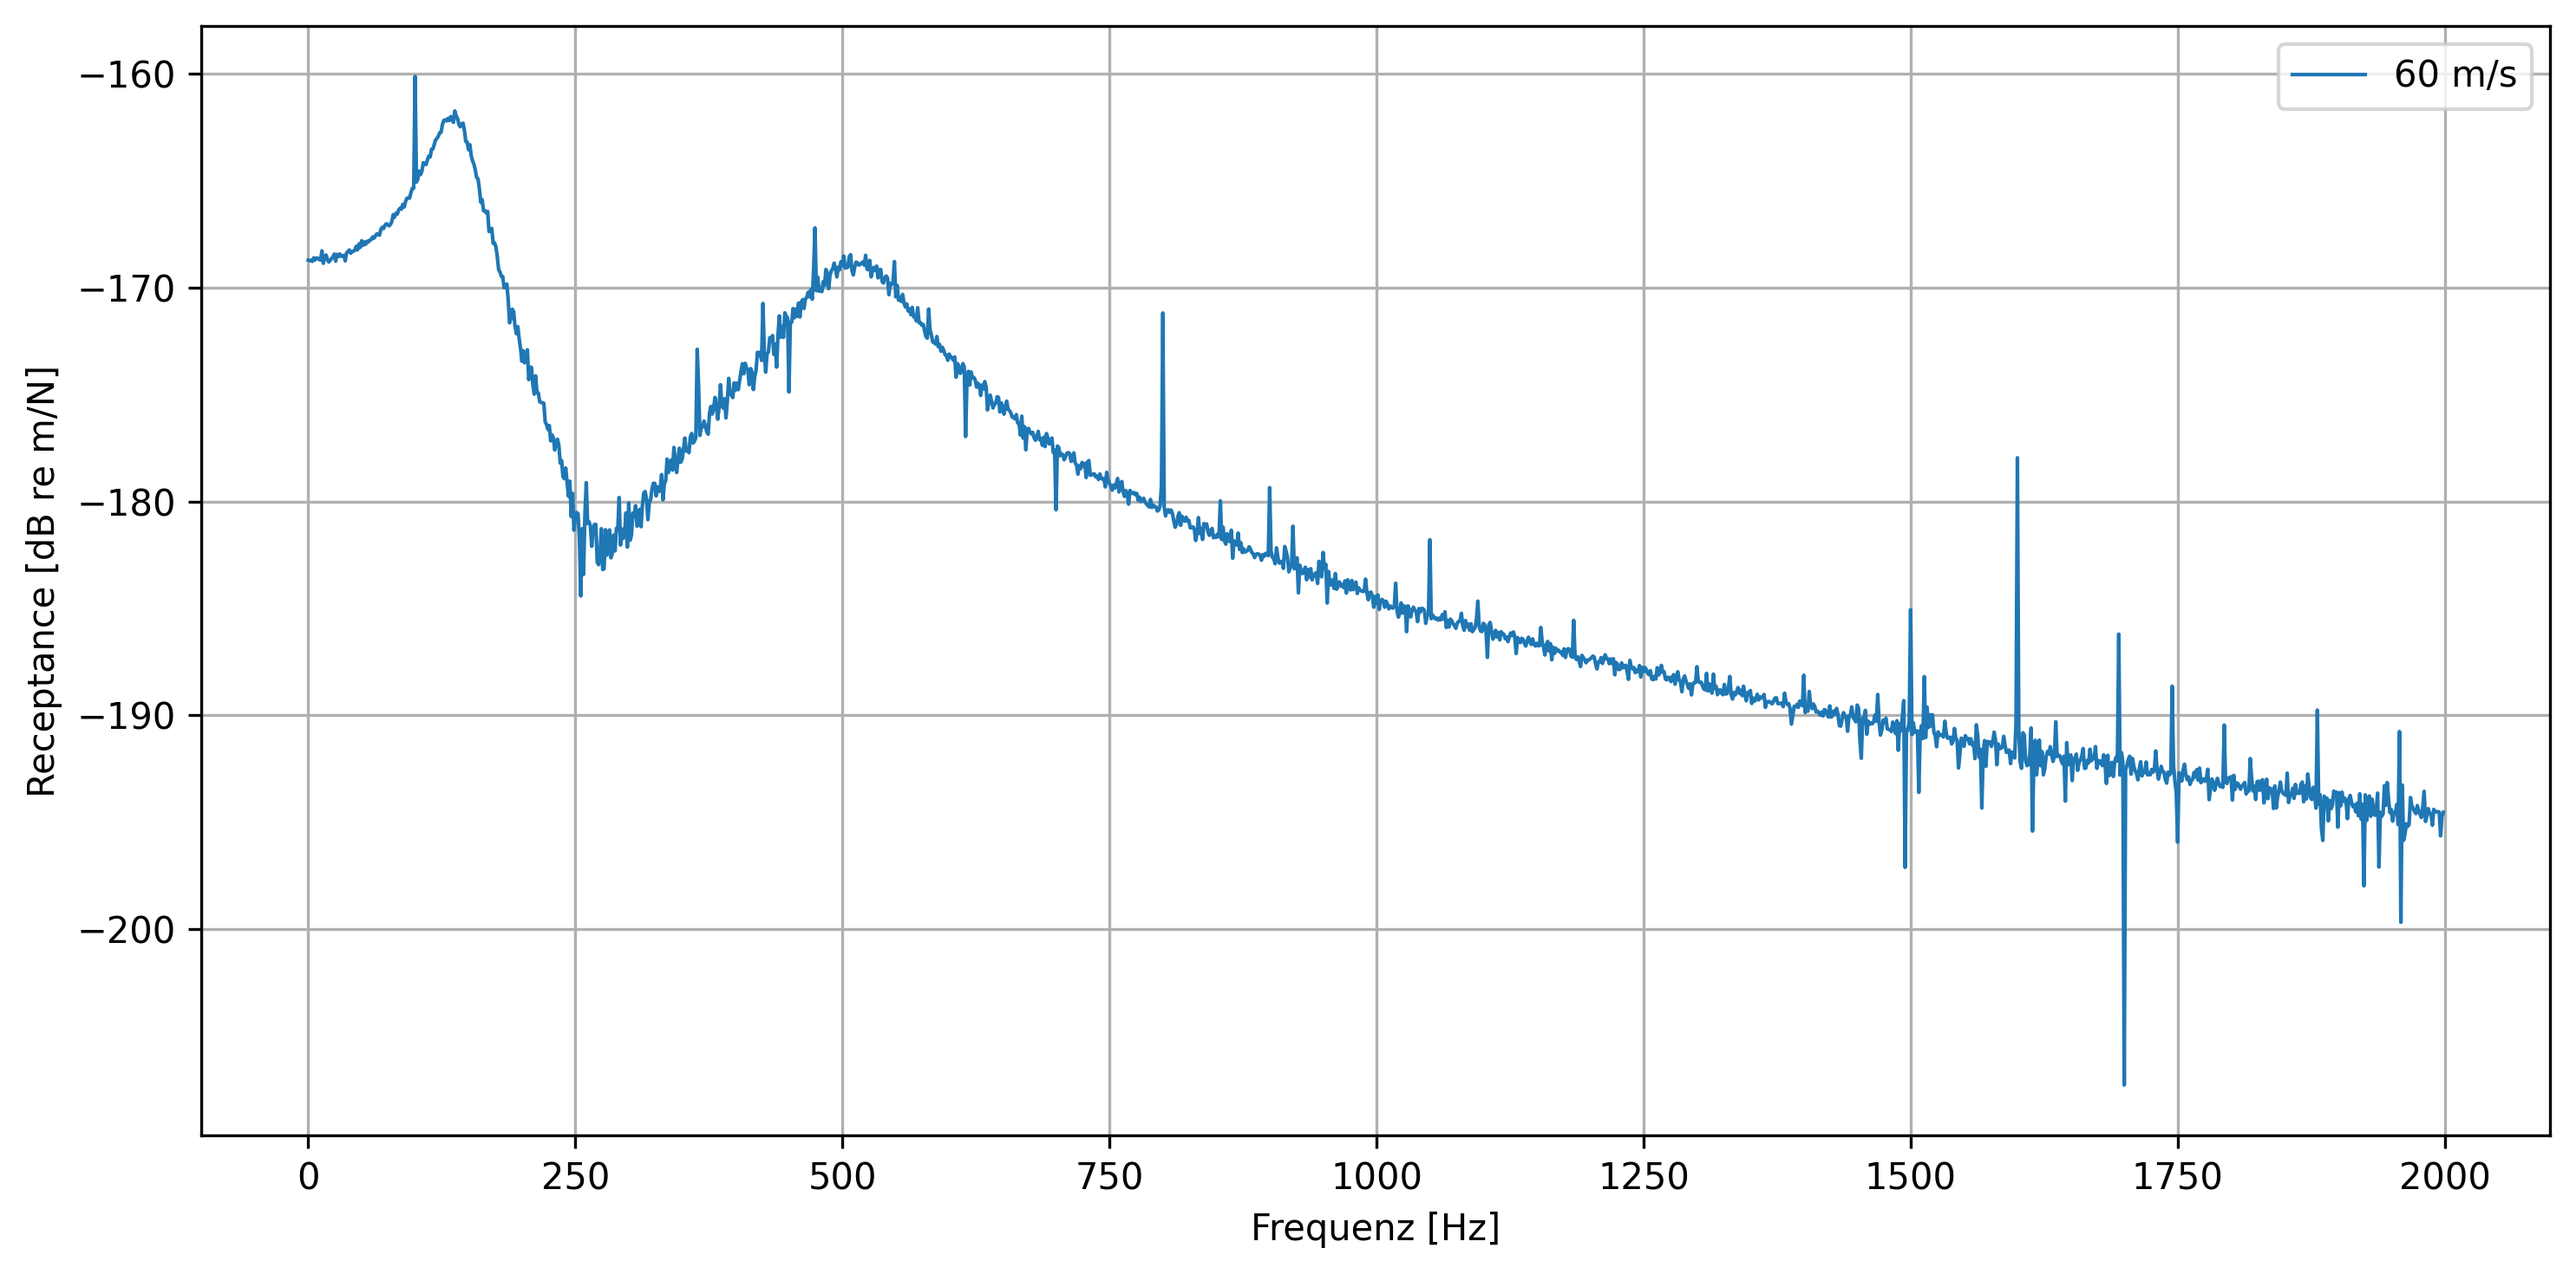
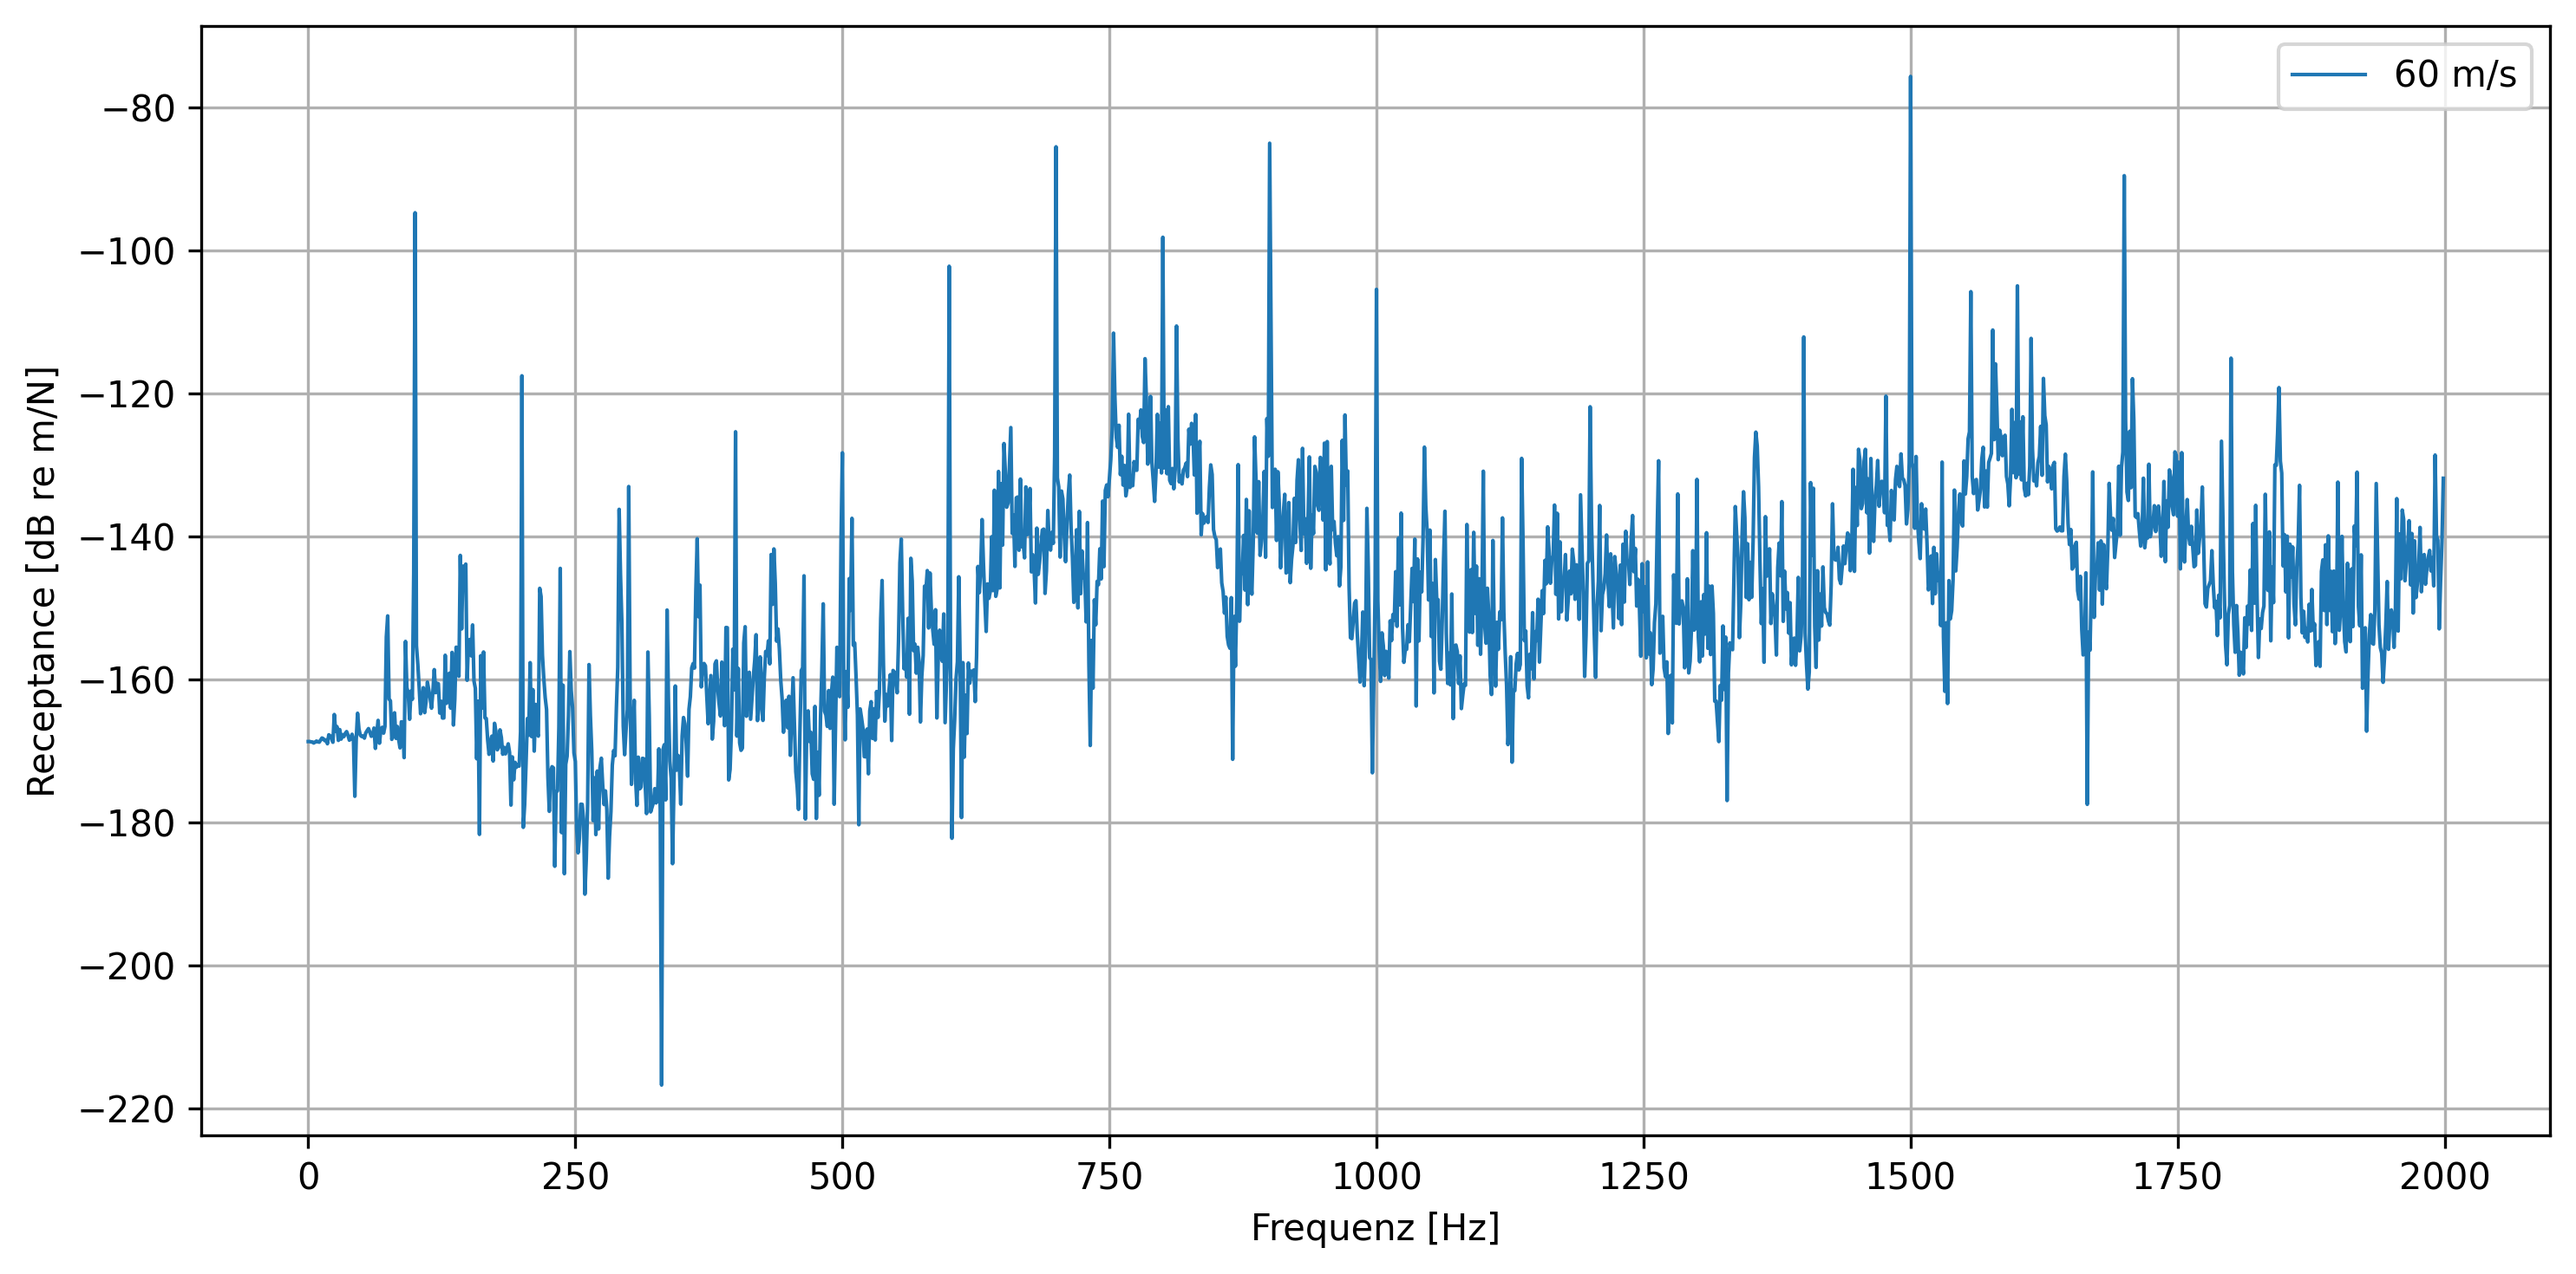
contact model works: no roughness for now though, so results look a bit weird. But deflection plots are on point! I will add roughness next.

diff --git a/rolland/deflection.py b/rolland/deflection.py
@@ -119,7 +119,7 @@ class DeflectionEBBVertic(Deflection):
         defl = empty((2 * self.discr.nx, self.discr.nt))
 
         # Set starting values to zero for two time steps
-        defl[:, 0:2] = zeros((2 * self.discr.nx, 2))
+        defl[:, 0:2] = zeros((2 * self.discr.nx, 2))    # NOTE: can this be dropped?
         return defl
 
     def calc_force(self):
@@ -127,7 +127,7 @@ class DeflectionEBBVertic(Deflection):
         t = linspace(0, self.discr.sim_t, self.discr.nt)
         self.force = self.excit.force(t)
 
-    def calc_rightside_crank_nicolson(self, u1, u0, excitation_pos, t):
+    def calc_rightside_crank_nicolson(self, defl, u1, u0, excitation_pos, t):
         """Calculate the right-hand side of the equation according to :cite:t:`stampka2022a`.
 
         Parameters
@@ -147,28 +147,72 @@ class DeflectionEBBVertic(Deflection):
             Right-hand side of the equation.
         """
         # create empty force array with length equal to number of DOFs (2*nx)
-        f = zeros(2 * self.discr.nx)
+        f_vec = zeros(2 * self.discr.nx)
 
-
-
-
-
-
-
-
-
-
-        # distribute force to the two nearest grid points using linear interpolation
         for pos in excitation_pos:
+            if len(self.force) <= t:
+                # Initialize variables for Hertzian contact calculation
+                force = -np.inf  # Initial force
+                max_iter = 100  # Maximum number of iterations
+                eps = 1e-6  # Convergence criterion
+
+
+
+                nu = self.track.rail.nu  # Poisson's ratio of the rail
+                G = self.track.rail.G  # Shear modulus of the rail
+                Ra = 0.35 # NOTE: hardcoded parameter, get from wheel geometry if available
+                alpha = 1 # NOTE: hardcoded parameter, get from wheel geometry if available
+                C = ((2*(1-nu))/(G*np.sqrt(Ra)))**(2/3) * alpha
+
+                static_force = self.excit.force_amplitude  # Static force at t=0, can be adjusted if needed
+                delta_0 = C*static_force**(2/3)  # Initial guess for penetration based on static force, can be adjusted if needed
+
+                # NOTE: needs changes to be multi-wheel compatible
+                for i in range(max_iter):
+                    # Calculate rail deflection, roughness, and wheel deflection
+                    upper_idx = int(np.ceil(pos))
+                    lower_idx = int(np.floor(pos))
+                    upper_weight = pos - lower_idx
+                    lower_weight = upper_idx - pos
+                    y_r = lower_weight*u1[lower_idx] + upper_weight*u1[upper_idx]  # Interpolated rail deflection at excitation point
+                    y_s = lower_weight*self.excit.roughness[lower_idx] + upper_weight*self.excit.roughness[upper_idx]  # Interpolated track roughness
+                    # y_w = wheel_deflection(force)  # Wheel deflection TODO: add wheel deflection calculation
+
+                    # Calculate geometric penetration
+                    ####################### TODO: ADD BACK ROUGHNESS ########################
+                    delta_lin = delta_0 + y_s # NOTE: are the directions of y_r & y_s correct?
+
+                    if delta_lin <= 0:
+                        force = 0
+                        self.force.append(force)  # Store the converged force value for the current time step
+                        break
+
+                    # Update force using Hertzian contact law
+                    force_new = (delta_lin / C) ** (3 / 2)
+
+                    if abs(force_new - force) < eps:
+                        force = force_new
+                        self.force.append(force)  # Store the converged force value for the current time step
+                        break
+
+                    # Update force for the next iteration
+                    force = force_new
+                else:
+                    print("Warning: Hertzian contact calculation did not converge.")
+            else:
+                force = self.force[t]
+
+
+            # distribute force to the two nearest grid points using linear interpolation
             lower_idx = int(np.floor(pos))
             upper_idx = int(np.ceil(pos))
             weight_upper = pos - lower_idx
             weight_lower = 1 - weight_upper
-            f[lower_idx] += self.force[t] * weight_lower
-            f[upper_idx] += self.force[t] * weight_upper
+            f_vec[lower_idx] += force * weight_lower
+            f_vec[upper_idx] += force * weight_upper
 
         return (self.discr.B.dot(u1) + self.discr.C.dot(u0) + self.discr.dt ** 2 /
-                (self.track.rail.mr * self.discr.dx) * f)
+                (self.track.rail.mr * self.discr.dx) * f_vec)
 
 
     def calc_deflection(self, defl):
@@ -251,6 +295,9 @@ class DeflectionEBBVertic(Deflection):
         #         plt.savefig(frames_dir / f'frame_{step:04d}.png', dpi=300, bbox_inches='tight')
         #         plt.close()
 
+        nx = self.discr.nx
+        self.excit.roughness = list(np.fft.ifft(np.fft.fft(np.random.randn(nx))/np.maximum(1,np.arange(nx))).real * 2e-6)
+
         for i in range(len(self.excitation_indices)):
             # Store initial deflection at contact points (should be zero at t=0)
             self.contact_point_deflection[i].append(defl[self.excitation_indices[i],0])  # initial deflection at t=0
@@ -285,6 +332,7 @@ class DeflectionEBBVertic(Deflection):
     def crank_nicolson_step(self, defl, t, excitation_pos):
         # Calculate right hand side of equation
         b = self.calc_rightside_crank_nicolson(
+            defl = defl,
             u1 = defl[:, t-1],
             u0 = defl[:, t-2],
             excitation_pos = excitation_pos,

diff --git a/Moving_Force.py b/Moving_Force.py
@@ -16,7 +16,7 @@ Workflow:
 from rolland                        import DiscrPad, Sleeper, Ballast
 from rolland.database.rail.db_rail  import UIC60, NORDBORG  # rail profiles
 from rolland                        import SimplePeriodicBallastedSingleRailTrack
-from rolland.excitation             import RandomForce, HertzianForce
+from rolland.excitation             import MovingForce
 from rolland import(
     PMLRailDampVertic,
     DiscretizationEBBVerticConst,
@@ -112,20 +112,13 @@ else:
         print(f"Computing velocity: {vel} m/s ({vel*3.6:.1f} km/h)")
 
         # Define moving load excitation
-        excitation = RandomForce(
+        excitation = MovingForce(
             ramp_fraction   = ramp_fraction,
             x_excit         = [starting_position],
             velocity        = float(vel),
-            force_amplitude = static_force
+            force_amplitude = static_force,
+            random_fill     = False
         )
-
-        # excitation = HertzianForce(
-        #     x_excit         = [starting_position],
-        #     # x_excit         = [starting_position,
-        #     #                    starting_position + 2.5],
-        #     velocity        = float(vel),
-        #     initial_force   = static_force
-        # )
 
         # Discretize domain
         discretization = DiscretizationEBBVerticConst(
@@ -240,38 +233,38 @@ plt.close('all')
 
 
 
-# # =============================================================================
-# # 4.6 Plot deflection as individual frames
-# # =============================================================================
-# # Create output directory for frames
-# frames_dir = output_dir / 'frames'
+# =============================================================================
+# 4.6 Plot deflection as individual frames
+# =============================================================================
+# Create output directory for frames
+frames_dir = output_dir / 'frames'
 
-# # Clear the frames directory if it already exists
-# if frames_dir.exists():
-#     for file in frames_dir.glob('*'):
-#         file.unlink()  # Delete each file in the directory
-# else:
-#     frames_dir.mkdir(exist_ok=True)  # Create the directory if it doesn't exist
+# Clear the frames directory if it already exists
+if frames_dir.exists():
+    for file in frames_dir.glob('*'):
+        file.unlink()  # Delete each file in the directory
+else:
+    frames_dir.mkdir(exist_ok=True)  # Create the directory if it doesn't exist
 
-# # Extract deflection data
-# deflection = np.transpose(deflection_results.deflection)
-# deflection = deflection[:, :deflection.shape[1] // 2]  # Take only the rail deflection part
+# Extract deflection data
+deflection = np.transpose(deflection_results.deflection)
+deflection = deflection[:, :deflection.shape[1] // 2]  # Take only the rail deflection part
 
-# # Loop through each time step and save a frame as a PNG
-# for t_idx in range(deflection.shape[0]): # loop through time steps
-#     if t_idx//60 == 0 or t_idx % 100 == 0:  # Save every 20th frame to reduce number of images
-#         plt.figure(figsize=(10, 5))
-#         plt.plot(deflection[t_idx, :], lw=2, label='Deflection')
-#         plt.xlim(0, deflection.shape[1])  # Set x-axis limits to the number of discrete points
-#         plt.ylim(np.max(deflection), np.min(deflection))
-#         plt.xlabel('Position along the rail')
-#         plt.ylabel('Deflection [m]')
-#         plt.title(f'Rail Deflection - Time Step {t_idx}')
-#         plt.grid(True)
-#         plt.legend()  # Add legend to show labels
-#         plt.tight_layout()
-#         plt.savefig(frames_dir / f'frame_{t_idx:04d}.png', dpi=300, bbox_inches='tight')
-#         plt.close()
+# Loop through each time step and save a frame as a PNG
+for t_idx in range(deflection.shape[0]): # loop through time steps
+    if (t_idx-4545)//40 == 0 or t_idx%200 == 0:  # Save every 20th frame to reduce number of images
+        plt.figure(figsize=(10, 5))
+        plt.plot(deflection[t_idx, :], lw=2, label='Deflection')
+        plt.xlim(0, deflection.shape[1])  # Set x-axis limits to the number of discrete points
+        plt.ylim(np.max(deflection), np.min(deflection))
+        plt.xlabel('Position along the rail')
+        plt.ylabel('Deflection [m]')
+        plt.title(f'Rail Deflection - Time Step {t_idx}')
+        plt.grid(True)
+        plt.legend()  # Add legend to show labels
+        plt.tight_layout()
+        plt.savefig(frames_dir / f'frame_{t_idx:04d}.png', dpi=300, bbox_inches='tight')
+        plt.close()
 
 
 # # 4.1 Plot deflection over time

diff --git a/rolland/excitation.py b/rolland/excitation.py
@@ -65,45 +65,8 @@ class GaussianImpulse(StationaryExcitation):
 class MovingExcitation(Excitation):
     """Moving excitation class."""
 
-class HertzianForce(MovingExcitation):
-    """Hertzian force excitation class for single or multiple moving loads.
 
-    Attributes
-    ----------
-    x_excit : list or float
-        Starting position(s) of excitation point(s) :math:`[m]`.
-    initial_force : float
-        Force amplitude per wheel :math:`[N]`.
-    velocity : float
-        Velocity of the moving load (train) :math:`[m/s]`.
-    """
-    vel_ramp_fraction   = Float(default_value=0.1)  # fraction of total time for acceleration
-    initial_force   = Float(default_value=65000.0)
-    x_excit         = Union([List(), Float(default_value = 50.0)])
-    velocity        = Float(default_value=27.78)  # default 100 km/h in m/s
-    
-    def validate_excitation(self):
-        """Validate excitation parameters."""
-
-    def force(self, t):
-        """Compute force array (contains force over time)."""
-        n = len(t)
-        force_array = []
-        self.ramp_length = int(self.ramp_fraction * n)
-        
-        # Linear ramp up
-        for i in range(self.ramp_length):
-            force_array.append(self.force_amplitude * (i / self.ramp_length))
-            
-        # constant force after ramp up
-        constant_part = [self.force_amplitude] * (n - self.ramp_length)
-
-        # concatenating the rampup with the constant part
-        force_array.extend(constant_part)
-
-        return force_array
-
-class RandomForce(MovingExcitation):
+class MovingForce(MovingExcitation):
     """Random force excitation class for single or multiple moving loads.
 
     Attributes
@@ -122,6 +85,8 @@ class RandomForce(MovingExcitation):
     force_amplitude = Float(default_value=65000.0)
     x_excit         = Union([List(), Float(default_value = 50.0)])
     velocity        = Float(default_value=27.78)  # default 100 km/h in m/s
+    roughness        = List(default_value=[])  # list of roughness values for each load
+    random_fill       = False  # whether to fill the force with random values after ramp up
     
     def validate_excitation(self):
         """Validate excitation parameters."""
@@ -135,17 +100,17 @@ class RandomForce(MovingExcitation):
         # Linear ramp up
         for i in range(self.ramp_length):
             force_array.append(self.force_amplitude * (i / self.ramp_length))
-            
-        # random force between force_amplitude and 2*force_amplitude
-        constant_part = [self.force_amplitude] * (n - self.ramp_length)
-        np.random.seed(42)  # für Reproduzierbarkeit
-        random_part = np.random.uniform(
-            low     = 0 * self.force_amplitude,
-            high    = 1 * self.force_amplitude,
-            size    = n - self.ramp_length
-        )
-
-        # concatenating the rampup with the constant and random part
-        force_array.extend(constant_part + random_part)
+        
+        if self.random_fill:
+            # random force between force_amplitude and 2*force_amplitude
+            constant_part = [self.force_amplitude] * (n - self.ramp_length)
+            np.random.seed(42)  # für Reproduzierbarkeit
+            random_part = np.random.uniform(
+                low     = 0 * self.force_amplitude,
+                high    = 1 * self.force_amplitude,
+                size    = n - self.ramp_length
+            )
+            # concatenating the rampup with the constant and random part
+            force_array.extend(constant_part + random_part)
 
         return force_array

diff --git a/rolland/database/rail/db_rail.py b/rolland/database/rail/db_rail.py
@@ -42,6 +42,8 @@ NORDBORG = Rail(
     mr=60,
     etar=0.004,
     Iyr=22.5e-6,
+    nu=0.3,
+    G=81e9,
 )
 
 UIC60 = Rail(
